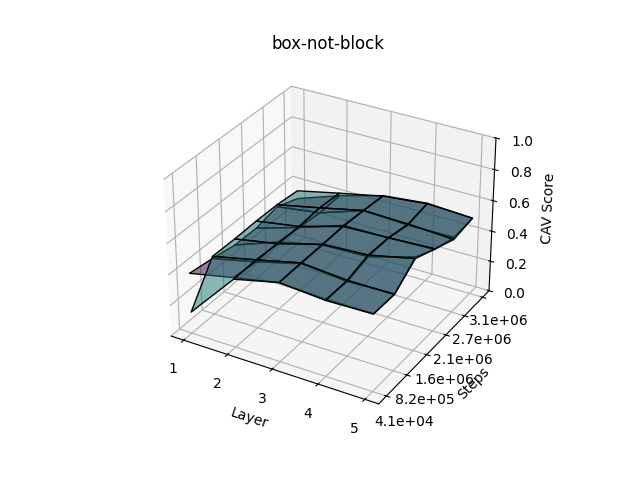
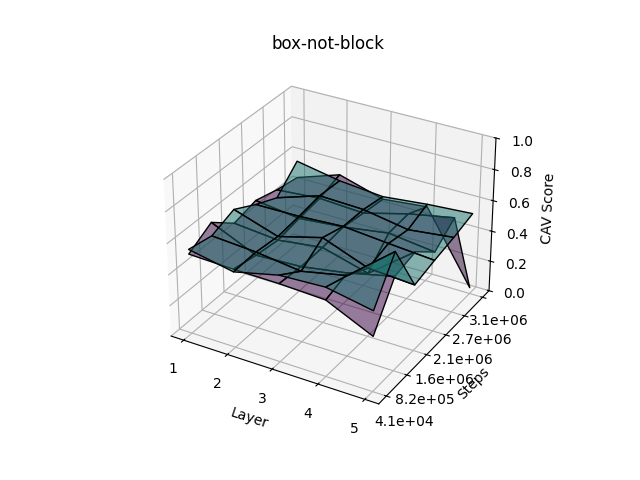
feat: tcav

Changed region(s): [[0.2812, 0.3438, 0.75, 0.7188]]

diff --git a/methods/src/cav/cav.py b/methods/src/cav/cav.py
@@ -1,9 +1,15 @@
-from data_handler import DataHandler
-import torch
+import warnings
+
 import numpy as np
+import torch
 import torch.nn as nn
+from sklearn.exceptions import ConvergenceWarning
 from sklearn.linear_model import LogisticRegression
 from sklearn.preprocessing import StandardScaler
+
+from data_handler import DataHandler
+
+warnings.filterwarnings("ignore", category=ConvergenceWarning)
 
 
 class CAV:
@@ -14,12 +20,9 @@ class CAV:
         self._model.eval()
 
         self._load_data(positive_sample_path, negative_sample_path)
-
         self._register_hooks()
 
         self._activations = {}
-        self._cavs = {}
-        self._cav_scores = {}
 
         np.random.seed(None)
 
@@ -44,41 +47,65 @@ class CAV:
 
         self._negative_data, self._test_negative_data = negative_data.split(0.7)
 
-    def compute_cavs(self):
+    def compute_cavs(self) -> tuple[dict, dict, dict]:
         positive_data, positive_labels = self._positive_data.get_data_lists()
         negative_data, negative_labels = self._negative_data.get_data_lists()
         test_data, test_labels = self._test_positive_data.get_data_lists()
-        positive_activations = self._compute_activations(positive_data)
-        negative_activations = self._compute_activations(negative_data)
-        test_activations = self._compute_activations(test_data)
+        positive_activations, positive_output = self._compute_activations(
+            positive_data, requires_grad=True
+        )
+        negative_activations, negative_output = self._compute_activations(
+            negative_data, requires_grad=True
+        )
+        test_activations, test_output = self._compute_activations(
+            test_data, requires_grad=True
+        )
+
+        cavs = {}
+        binary_concept_scores = {}
+        tcav_scores = {}
+
         for layer in self._activations.keys():
-            self._compute_cav(
-                layer,
-                positive_activations[layer],
-                negative_activations[layer],
-                test_activations[layer],
+            regressor = self._compute_regressor(
+                positive_activations[layer], negative_activations[layer]
+            )
+            cav = self._cav(regressor)
+            tcav_score = self._tcav_score(test_activations[layer], test_output, cav)
+            binary_concept_score = self._binary_concept_score(
+                test_activations[layer], regressor
             )
 
-    def _compute_cav(
+            cavs[layer] = cav
+            binary_concept_scores[layer] = binary_concept_score
+            tcav_scores[layer] = tcav_score
+
+        return cavs, binary_concept_scores, tcav_scores
+
+    def _preprocess_activations(self, activations: dict) -> np.ndarray:
+        numpy_activations = activations["output"].detach().numpy()
+        activations = numpy_activations.reshape(numpy_activations.shape[0], -1)
+        scaler = StandardScaler()
+        scaled_act = scaler.fit_transform(activations)
+        return scaled_act
+
+    def _cav(self, regressor: LogisticRegression):
+        return regressor.coef_
+
+    def _compute_regressor(
         self,
-        layer,
         positive_activations: dict,
         negative_activations: dict,
-        test_activations: dict,
-    ):
-        pos_act = positive_activations["output"].numpy()
-        neg_act = negative_activations["output"].numpy()
-
-        pos_act = pos_act.reshape(pos_act.shape[0], -1)
-        neg_act = neg_act.reshape(neg_act.shape[0], -1)
+    ) -> LogisticRegression:
+        pos_act = self._preprocess_activations(positive_activations)
+        neg_act = self._preprocess_activations(negative_activations)
 
         assert pos_act.shape[1] == neg_act.shape[1]
 
-        pos_labels = np.ones(pos_act.shape[0])
-        neg_labels = np.zeros(neg_act.shape[0])
+        positive_labels = np.ones(pos_act.shape[0])
+        negative_labels = np.zeros(neg_act.shape[0])
 
         combined_activations = np.concatenate([pos_act, neg_act])
-        combined_labels = np.concatenate([pos_labels, neg_labels])
+        combined_labels = np.concatenate([positive_labels, negative_labels])
 
         idx = np.random.permutation(combined_activations.shape[0])
         combined_activations = combined_activations[idx]
@@ -87,54 +114,62 @@ class CAV:
         scaler = StandardScaler()
         combined_activations = scaler.fit_transform(combined_activations)
 
-        # randomized_combined_activations = np.random.permutation(combined_activations)
-        # combined_activations = randomized_combined_activations
+        regressor = LogisticRegression(max_iter=200, warm_start=True)
+        regressor.coef_ = np.random.rand(1, combined_activations.shape[1])
+        regressor.intercept_ = np.random.rand(1)
+        regressor.fit(combined_activations, combined_labels)
 
-        self.regressor = LogisticRegression(max_iter=200, warm_start=True)
-        self.regressor.coef_ = np.random.rand(1, combined_activations.shape[1])
-        self.regressor.intercept_ = np.random.rand(1)
-        self.regressor.fit(combined_activations, combined_labels)
+        return regressor
 
-        self._cav = self.regressor.coef_
-        self._cavs[layer] = self._cav
+    def _tcav_score(
+        self, activations: dict, network_output: torch.Tensor, cav: np.ndarray
+    ) -> float:
+        torch_activations = activations["output"]
+        assert isinstance(
+            torch_activations, torch.Tensor
+        ), "Activations must be a tensor"
+        assert (
+            torch_activations.requires_grad
+        ), "Activations must have requires_grad=True"
+        sensitivity_score = self._sensitivity_score(
+            torch_activations, network_output, cav
+        )
+        return (sensitivity_score > 0).mean()
 
-        self._binary_concept_score(layer, test_activations)
+    def _sensitivity_score(
+        self, activations: torch.Tensor, network_output: torch.Tensor, cav: np.ndarray
+    ) -> np.ndarray:
+        grads = torch.autograd.grad(
+            outputs=network_output,
+            inputs=activations,
+            grad_outputs=torch.ones_like(network_output),
+            retain_graph=True,
+        )[0]
 
-        return self._cav
+        grads_flattened = grads.view(grads.size(0), -1)
 
-    def compute_cav_scores(self):
-        test_data, test_labels = self._test_positive_data.get_data_lists()
-        test_activations = self._compute_activations(test_data)
-        for layer in self._activations.keys():
-            self._binary_concept_score(layer, test_activations[layer])
+        return np.dot(grads_flattened, cav.T)
 
-    def _binary_concept_score(self, layer, test_activations: dict):
-        layer_activations = test_activations["output"].numpy()
+    def _binary_concept_score(
+        self, activations: dict, regressor: LogisticRegression
+    ) -> float:
+        act = self._preprocess_activations(activations)
+        labels = np.ones(act.shape[0])
+        return regressor.score(act, labels)
 
-        layer_act = layer_activations.reshape(layer_activations.shape[0], -1)
-        labels = np.ones(layer_act.shape[0])
-
-        scaler = StandardScaler()
-        scaled_act = scaler.fit_transform(layer_act)
-
-        self._cav_scores[layer] = self.regressor.score(scaled_act, labels)
-        return self._cav_scores[layer]
-
-    def _compute_activations(self, inputs: list[np.ndarray], requires_grad=False):
+    def _compute_activations(
+        self, inputs: list[np.ndarray], requires_grad=False
+    ) -> tuple[dict, torch.Tensor]:
         self._activations.clear()
 
         torch_inputs = torch.stack(
             [torch.tensor(input_array, dtype=torch.float32) for input_array in inputs]
         ).requires_grad_(requires_grad)
-        _ = self._model(torch_inputs)
-        return self._activations.copy()
+        output = self._model(torch_inputs)
+        return self._activations.copy(), output
 
     def _module_hook(self, module: nn.Module, input, output):
         self._activations[module] = {
-            "input": input[0].detach(),
-            "output": output.detach(),
+            "input": input[0],
+            "output": output,
         }
-
-    @property
-    def cav_scores(self) -> dict:
-        return self._cav_scores

diff --git a/methods/src/cav/analysis.py b/methods/src/cav/analysis.py
@@ -18,10 +18,14 @@ class Analysis:
         self._models = models
         self._positive_sample_path = positive_sample_path
         self._negative_sample_path = negative_sample_path
+
         self._cav_scores = {}
+        self._tcav_scores = {}
+
         self._model_steps = {}
 
         self._total_cav_scores = {}
+        self._total_tcav_scores = {}
         self._average_cav_scores = {}
 
     def run(self, averages: int = 10):
@@ -31,12 +35,14 @@ class Analysis:
             logging.info(f"Running CAV {i + 1}/{averages}")
             self._run_cav()
             self._add_total_cav_scores()
+            self._add_total_tcav_scores()
 
         self._calculate_average_cav_scores(averages)
 
     def _reset(self):
-        self._cav_scores = {}
-        self._model_steps = {}
+        self._cavs = {}
+        self._binary_concept_scores = {}
+        self._tcav_scores = {}
         np.random.seed(0)
 
     def _add_total_cav_scores(self):
@@ -50,6 +56,18 @@ class Analysis:
                 if layer not in self._total_cav_scores[model]:
                     self._total_cav_scores[model][layer] = 0
                 self._total_cav_scores[model][layer] += score
+
+    def _add_total_tcav_scores(self):
+        for model, layers in self._tcav_scores.items():
+            if model not in self._total_tcav_scores:
+                self._total_tcav_scores[model] = {}
+                for (
+                    layer,
+                    score,
+                ) in layers.items():
+                    if layer not in self._total_tcav_scores[model]:
+                        self._total_tcav_scores[model][layer] = 0
+                    self._total_tcav_scores[model][layer] += score
 
     def _calculate_average_cav_scores(self, n: int):
         for model, layers in self._total_cav_scores.items():
@@ -67,8 +85,11 @@ class Analysis:
                 self._positive_sample_path,
                 self._negative_sample_path,
             )
-            cav.compute_cavs()
-            self._cav_scores[self._models.current_model_idx] = cav.cav_scores.copy()
+            cavs, binary_concept_scores, tcav_scores = cav.compute_cavs()
+            self._cav_scores[self._models.current_model_idx] = (
+                binary_concept_scores.copy()
+            )
+            self._tcav_scores[self._models.current_model_idx] = tcav_scores.copy()
             self._model_steps[self._models.current_model_idx] = (
                 self._models.current_model_steps
             )
@@ -77,8 +98,12 @@ class Analysis:
             self._models.next()
 
     @property
-    def scores(self):
+    def cav_scores(self):
         return self._average_cav_scores.copy()
+
+    @property
+    def tcav_scores(self):
+        return self._total_tcav_scores.copy()
 
     @property
     def steps(self):
@@ -143,7 +168,7 @@ class Analysis:
         ax1.set_title(title)
         ax1.set_xlabel("Layer")
         ax1.set_ylabel("Steps")
-        ax1.set_zlabel("CAV Score")
+        ax1.set_zlabel("Score")
 
         ax1.set_xticks(np.arange(matrices[0].shape[1]))
         ax1.set_xticklabels([str(i) for i in range(1, matrices[0].shape[1] + 1)])

diff --git a/methods/src/cav/__main__.py b/methods/src/cav/__main__.py
@@ -15,10 +15,24 @@ action_space = gym.action_space
 
 env = CAVWrapper(gym)
 concept_names = env.get_concept_names()
+concept_names = ["random"]
 
 
-def plot(positive_concept: str, negative_concept: str, observation_space, action_space):
-    scores = []
+def plot(positive_concept: str, cav_scores: list, steps: list):
+    Analysis.plot(
+        cav_scores,
+        steps,
+        filename=f"{positive_concept}.png",
+        title=positive_concept,
+        show=True,
+    )
+
+
+def analyse(
+    positive_concept: str, negative_concept: str, observation_space, action_space
+):
+    cav_scores = []
+    tcav_scores = []
     steps = []
 
     for suffix in ["0", "1"]:
@@ -28,18 +42,16 @@ def plot(positive_concept: str, negative_concept: str, observation_space, action
             models, positive_concept + ".csv", negative_concept + ".csv"
         )
         analysis.run(averages=1)
-        scores.append(analysis.scores)
+        cav_scores.append(analysis.cav_scores)
+        tcav_scores.append(analysis.tcav_scores)
         steps.append(analysis.steps)
 
-    Analysis.plot(
-        scores,
-        steps,
-        filename=f"{positive_concept}.png",
-        title=positive_concept,
-        show=False,
-    )
+    return cav_scores, tcav_scores, steps
 
 
 for concept in concept_names:
     logging.info(f"Running CAV for concept {concept}")
-    plot(concept, negative_concept, observation_space, action_space)
+    cav_scores, tcav_scores, steps = analyse(
+        concept, negative_concept, observation_space, action_space
+    )
+    plot(concept, tcav_scores, steps)

diff --git a/environments/gymnasium/envs/tag/tag.py b/environments/gymnasium/envs/tag/tag.py
@@ -47,7 +47,7 @@ class TagEnv(gym.Env):
         self.screen_width = 600
         self.screen_height = 600
         folder_name = "environments/gymnasium/data/tag/"
-        filename = "has-0-10-10.txt"
+        filename = "tag-0-10-10.txt"
         self.state_type = StateType.FULL
         self.bootcamp = Bootcamp()
         self.tag_radius = 1

diff --git a/environments/gymnasium/envs/tag/rewards.py b/environments/gymnasium/envs/tag/rewards.py
@@ -1,6 +1,6 @@
 TAGGED_REWARD = (1, -1)
 NOT_TAGGED_REWARD = (-0.01, 0.01)
-CAN_SEE_REWARD = (0.02, -0.02)
+CAN_SEE_REWARD = (0.0, -0.0)
 
 MOVE_REWARD = (0, 0)
 END_REWARD = (0, 0)
